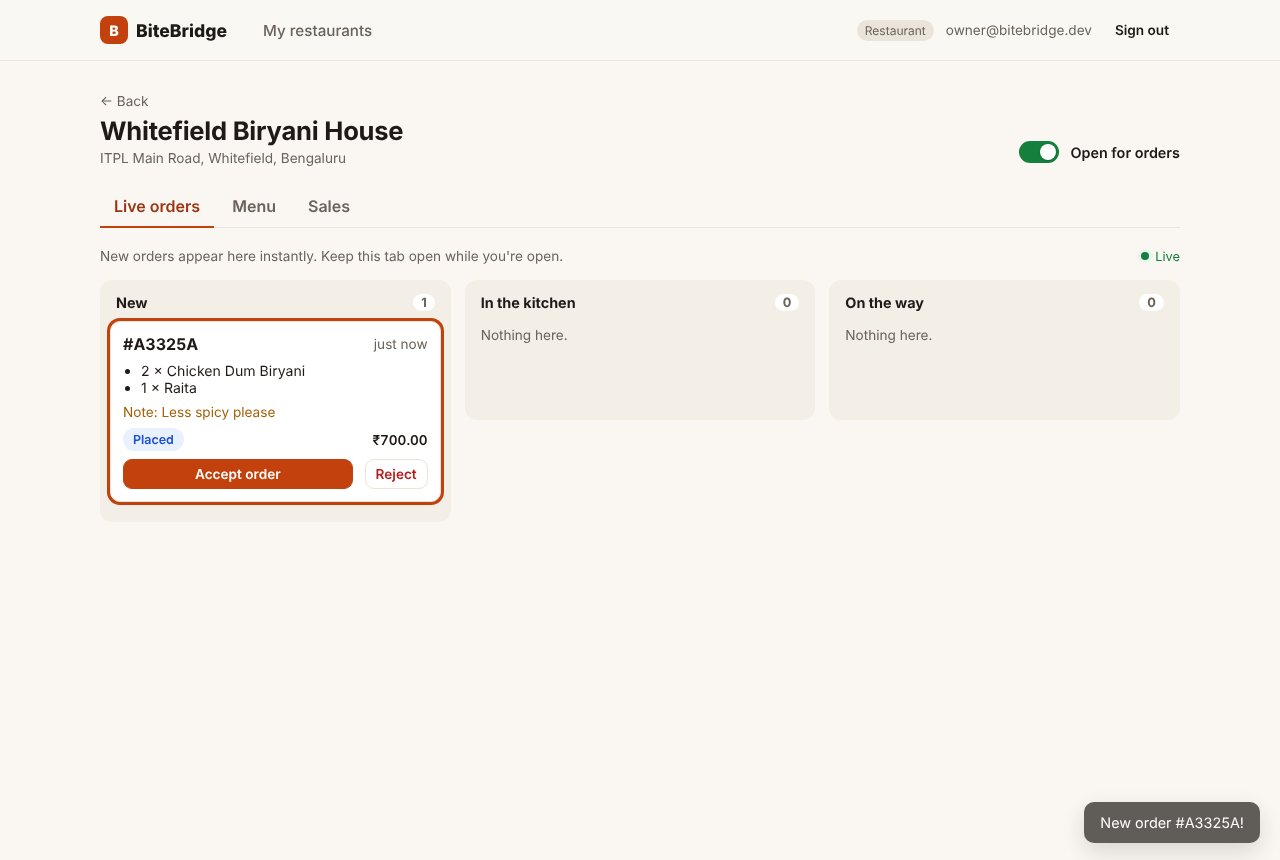
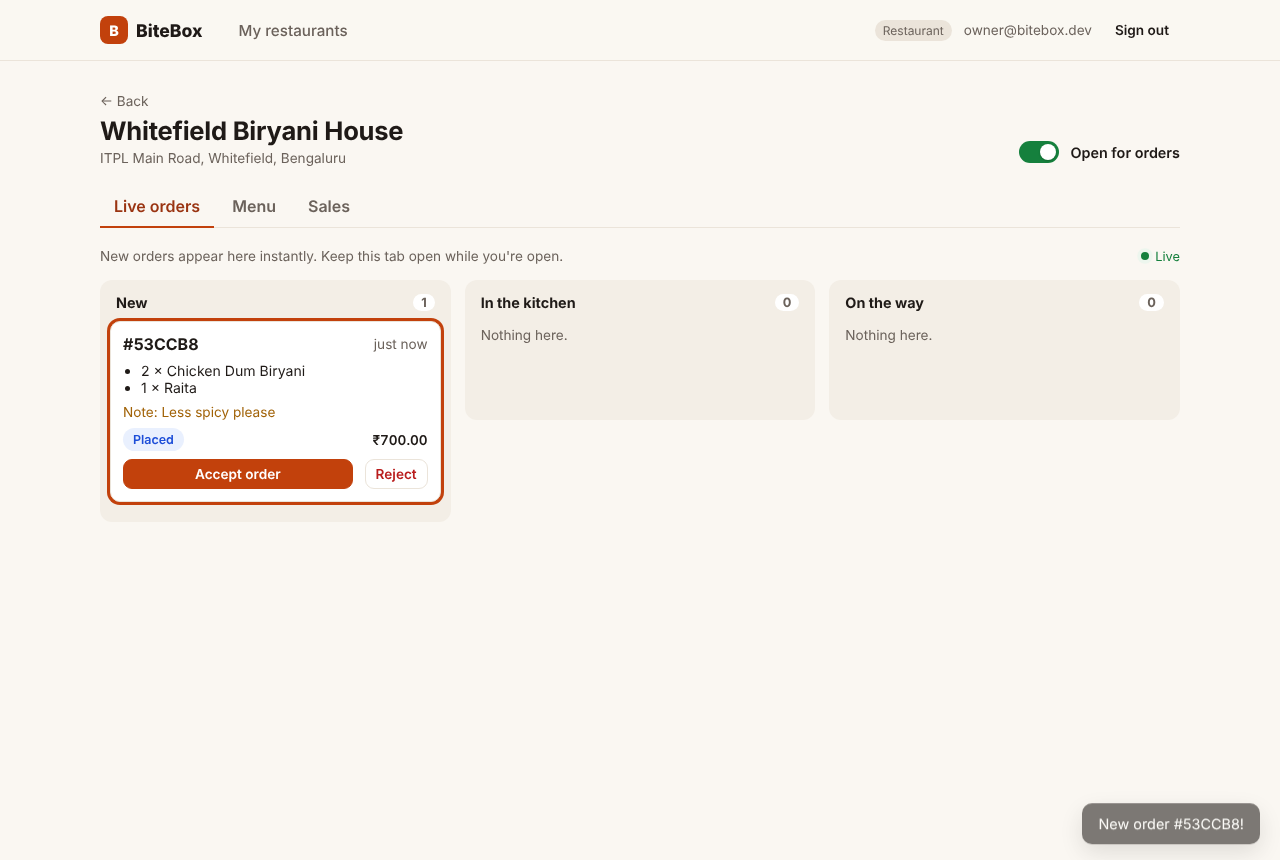
Rename BiteBridge to BiteBox
Claude-Session: https://claude.ai/code/session_018eCQTmmVppNiCibQpCyiQs

diff --git a/src/pages/customer/CartPage.tsx b/src/pages/customer/CartPage.tsx
@@ -10,7 +10,7 @@ export function CartPage() {
   const navigate = useNavigate();
   const cart = useQuery({ queryKey: ['cart'], queryFn: api.cart });
   const config = useQuery({ queryKey: ['config'], queryFn: api.config, staleTime: Infinity });
-  const [address, setAddress] = useState(() => localStorage.getItem('bitebridge.address') ?? '');
+  const [address, setAddress] = useState(() => localStorage.getItem('bitebox.address') ?? '');
   const [notes, setNotes] = useState('');
 
   const setQty = useMutation({
@@ -21,7 +21,7 @@ export function CartPage() {
   const checkout = useMutation({
     mutationFn: () => api.checkout(address, notes),
     onSuccess: ({ order }) => {
-      localStorage.setItem('bitebridge.address', address);
+      localStorage.setItem('bitebox.address', address);
       qc.invalidateQueries({ queryKey: ['cart'] });
       qc.invalidateQueries({ queryKey: ['orders'] });
       navigate(`/orders/${order.id}`);

diff --git a/src/api/client.ts b/src/api/client.ts
@@ -14,7 +14,7 @@ import type {
 export const API_URL: string = import.meta.env.VITE_API_URL || '';
 const BASE = API_URL || '/api';
 
-const TOKEN_KEY = 'bitebridge.token';
+const TOKEN_KEY = 'bitebox.token';
 export const tokenStore = {
   get: () => localStorage.getItem(TOKEN_KEY),
   set: (t: string) => localStorage.setItem(TOKEN_KEY, t),
@@ -31,7 +31,7 @@ export class ApiError extends Error {
 }
 
 /** Fired when the API says our token is no longer valid, so the app can sign out. */
-export const UNAUTHORIZED_EVENT = 'bitebridge:unauthorized';
+export const UNAUTHORIZED_EVENT = 'bitebox:unauthorized';
 
 async function request<T>(method: string, path: string, body?: unknown): Promise<T> {
   const token = tokenStore.get();

diff --git a/src/pages/AuthPages.tsx b/src/pages/AuthPages.tsx
@@ -5,9 +5,9 @@ import { ErrorBanner } from '../components/ui';
 
 /** The accounts created by `npm run seed` in the API. Shown only in local development. */
 const DEMO = [
-  { email: 'customer@bitebridge.dev', label: 'Customer' },
-  { email: 'owner@bitebridge.dev', label: 'Restaurant owner' },
-  { email: 'admin@bitebridge.dev', label: 'Admin' },
+  { email: 'customer@bitebox.dev', label: 'Customer' },
+  { email: 'owner@bitebox.dev', label: 'Restaurant owner' },
+  { email: 'admin@bitebox.dev', label: 'Admin' },
 ];
 
 export function LoginPage() {

diff --git a/src/components/Layout.tsx b/src/components/Layout.tsx
@@ -36,7 +36,7 @@ export function Layout() {
       <header className="topbar">
         <div className="topbar-inner">
           <Link to="/" className="logo">
-            <span className="logo-mark">B</span> BiteBridge
+            <span className="logo-mark">B</span> BiteBox
           </Link>
           <nav className="nav">
             {links.map((l) => (

diff --git a/src/api/types.ts b/src/api/types.ts
@@ -1,4 +1,4 @@
-// Shapes returned by the BiteBridge API. Kept in one place so a backend change
+// Shapes returned by the BiteBox API. Kept in one place so a backend change
 // shows up as a type error here rather than a runtime surprise.
 
 export type Role = 'customer' | 'restaurant_owner' | 'admin';

diff --git a/index.html b/index.html
@@ -4,7 +4,7 @@
     <meta charset="UTF-8" />
     <meta name="viewport" content="width=device-width, initial-scale=1.0" />
     <link rel="icon" href="/favicon.svg" type="image/svg+xml" />
-    <title>BiteBridge</title>
+    <title>BiteBox</title>
   </head>
   <body>
     <div id="root"></div>

diff --git a/README.md b/README.md
@@ -1,14 +1,14 @@
-# BiteBridge Web
+# BiteBox Web
 
-The web front end for **BiteBridge**, a food ordering and delivery platform. One app, three experiences:
+The web front end for **BiteBox**, a food ordering and delivery platform. One app, three experiences:
 
 - **Customers** browse restaurants, fill a cart, pay and watch their order move from kitchen to door, live.
 - **Restaurant owners** get a live order board, a menu editor and sales reports.
 - **Admins** see every order on the platform and can suspend restaurants.
 
-The backend is in the companion repo [bitebridge-api](https://github.com/rkparupudi/bitebridge-api).
+The backend is in the companion repo [bitebox-api](https://github.com/rkparupudi/bitebox-api).
 
-![CI](https://github.com/rkparupudi/bitebridge-web/actions/workflows/ci.yml/badge.svg)
+![CI](https://github.com/rkparupudi/bitebox-web/actions/workflows/ci.yml/badge.svg)
 
 | | |
 |---|---|
@@ -71,7 +71,7 @@ The backend is in the companion repo [bitebridge-api](https://github.com/rkparup
 ### Prerequisites
 
 - **Node.js 22**
-- The **BiteBridge API running on http://localhost:3000**, seeded with demo data. Follow the API repo's Quick start; it takes about five minutes with Docker Desktop.
+- The **BiteBox API running on http://localhost:3000**, seeded with demo data. Follow the API repo's Quick start; it takes about five minutes with Docker Desktop.
 
 ### Run
 
@@ -90,9 +90,9 @@ The sign-in page shows one-click buttons for the seeded accounts. They appear on
 
 | Role | Email | Password |
 |---|---|---|
-| Customer | `customer@bitebridge.dev` | `password123` |
-| Restaurant owner | `owner@bitebridge.dev` | `password123` |
-| Admin | `admin@bitebridge.dev` | `password123` |
+| Customer | `customer@bitebox.dev` | `password123` |
+| Restaurant owner | `owner@bitebox.dev` | `password123` |
+| Admin | `admin@bitebox.dev` | `password123` |
 
 ---
 
@@ -286,7 +286,7 @@ The included GitHub Actions workflow (`.github/workflows/deploy.yml`) does both 
 2. Syncs assets to S3 with `Cache-Control: max-age=31536000, immutable` and `index.html` with `no-cache`.
 3. Invalidates `index.html` in CloudFront.
 
-It signs in to AWS through **OIDC**, so no AWS keys are stored in GitHub. It skips itself until the repository variables are set. Full AWS setup, including costs, is in the API repo's [DEPLOYMENT.md](https://github.com/rkparupudi/bitebridge-api/blob/main/DEPLOYMENT.md).
+It signs in to AWS through **OIDC**, so no AWS keys are stored in GitHub. It skips itself until the repository variables are set. Full AWS setup, including costs, is in the API repo's [DEPLOYMENT.md](https://github.com/rkparupudi/bitebox-api/blob/main/DEPLOYMENT.md).
 
 For the cheaper single-server option, copy `dist/` to the server, where Caddy serves it (also in DEPLOYMENT.md).
 
@@ -317,10 +317,10 @@ Run through this before a release. Use two browser windows for the real-time ite
 
 | Symptom | Fix |
 |---|---|
-| Blank list, or "Failed to fetch" / 502 from `/api/...` | The API isn't running on :3000. Start it (`npm run start:dev` in bitebridge-api) |
+| Blank list, or "Failed to fetch" / 502 from `/api/...` | The API isn't running on :3000. Start it (`npm run start:dev` in bitebox-api) |
 | "Connecting…" never turns into "Live" | The API is down, or your token expired. Sign out and back in |
 | No demo login buttons on the sign-in page | They only appear in `npm run dev`, not in production builds |
-| Demo login fails with "Invalid email or password" | Seed the API: `npm run seed` in bitebridge-api |
+| Demo login fails with "Invalid email or password" | Seed the API: `npm run seed` in bitebox-api |
 | "Stripe is not configured" on the payment screen | The API is in Stripe mode without `STRIPE_PUBLISHABLE_KEY`. Set it, or use `PAYMENTS_PROVIDER=fake` locally |
 | Deep link returns 404 after deploying | Configure the single-page app fallback (see [Building and deploying](#building-and-deploying)) |
 | Production site calls the wrong API | `VITE_API_URL` is baked in at build time. Rebuild with the right value |
